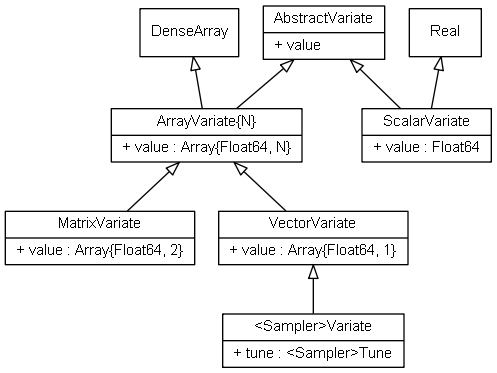
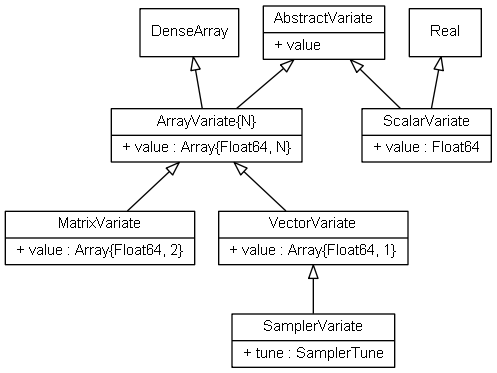
Implement abstract SamplerTune and SamplerVariate types.

Changed region(s): [[0.6036, 0.8257, 0.8149, 1.0], [0.4225, 0.8257, 0.5734, 1.0], [0.6338, 0.8552, 0.7545, 0.8847]]

diff --git a/doc/variate.rst b/doc/variate.rst
@@ -21,9 +21,12 @@ Declarations
 
     abstract ScalarVariate <: Real
     abstract ArrayVariate{N} <: DenseArray{Float64, N}
+
     typealias AbstractVariate Union{ScalarVariate, ArrayVariate}
     typealias VectorVariate ArrayVariate{1}
     typealias MatrixVariate ArrayVariate{2}
+
+    abstract SamplerVariate <: VectorVariate
 
 Type Hierarchy
 ^^^^^^^^^^^^^^

diff --git a/doc/samplers/slicesimplex.rst b/doc/samplers/slicesimplex.rst
@@ -41,7 +41,7 @@ SliceSimplexVariate Type
 Declaration
 ```````````
 
-``SliceSimplexVariate <: VectorVariate``
+``SliceSimplexVariate <: SamplerVariate``
 
 Fields
 ``````
@@ -74,7 +74,7 @@ SliceSimplexTune Type
 Declaration
 ```````````
 
-``type SliceSimplexTune``
+``type SliceSimplexTune <: SamplerTune``
 
 Fields
 ``````

diff --git a/doc/samplers/slice.rst b/doc/samplers/slice.rst
@@ -45,7 +45,7 @@ SliceVariate Type
 Declaration
 ```````````
 
-``SliceVariate <: VectorVariate``
+``SliceVariate <: SamplerVariate``
 
 Fields
 ``````
@@ -78,7 +78,7 @@ SliceTune Type
 Declaration
 ```````````
 
-``type SliceTune``
+``type SliceTune <: SamplerTune``
 
 Fields
 ``````

diff --git a/doc/samplers/bmg.rst b/doc/samplers/bmg.rst
@@ -41,7 +41,7 @@ BMGVariate Type
 Declaration
 ```````````
 
-``BMGVariate <: VectorVariate``
+``BMGVariate <: SamplerVariate``
 
 Fields
 ``````
@@ -72,7 +72,7 @@ BMGTune Type
 Declaration
 ```````````
 
-``type BMGTune``
+``type BMGTune <: SamplerTune``
 
 
 Sampler Constructor

diff --git a/doc/samplers/amwg.rst b/doc/samplers/amwg.rst
@@ -45,7 +45,7 @@ AMWGVariate Type
 Declaration
 ```````````
 
-``AMWGVariate <: VectorVariate``
+``AMWGVariate <: SamplerVariate``
 
 Fields
 ``````
@@ -79,7 +79,7 @@ AMWGTune Type
 Declaration
 ```````````
 
-``type AMWGTune``
+``type AMWGTune <: SamplerTune``
 
 Fields
 ``````

diff --git a/doc/samplers/bhmc.rst b/doc/samplers/bhmc.rst
@@ -41,7 +41,7 @@ BHMCVariate Type
 Declaration
 ```````````
 
-``BHMCVariate <: VectorVariate``
+``BHMCVariate <: SamplerVariate``
 
 Fields
 ``````
@@ -74,7 +74,7 @@ BHMCTune Type
 Declaration
 ```````````
 
-``type BHMCTune``
+``type BHMCTune <: SamplerTune``
 
 Fields
 ``````

diff --git a/doc/samplers/bmc3.rst b/doc/samplers/bmc3.rst
@@ -44,7 +44,7 @@ BMC3Variate Type
 Declaration
 ```````````
 
-``BMC3Variate <: VectorVariate``
+``BMC3Variate <: SamplerVariate``
 
 Fields
 ``````
@@ -77,7 +77,7 @@ BMC3Tune Type
 Declaration
 ```````````
 
-``type BMC3Tune``
+``type BMC3Tune <: SamplerTune``
 
 Fields
 ``````

diff --git a/doc/samplers/mala.rst b/doc/samplers/mala.rst
@@ -44,7 +44,7 @@ MALAVariate Type
 Declaration
 ```````````
 
-``MALAVariate <: VectorVariate``
+``MALAVariate <: SamplerVariate``
 
 Fields
 ``````
@@ -77,7 +77,7 @@ MALATune Type
 Declaration
 ```````````
 
-``type MALATune``
+``type MALATune <: SamplerTune``
 
 Fields
 ``````

diff --git a/doc/samplers/nuts.rst b/doc/samplers/nuts.rst
@@ -57,7 +57,7 @@ NUTSVariate Type
 Declaration
 ```````````
 
-``NUTSVariate <: VectorVariate``
+``NUTSVariate <: SamplerVariate``
 
 Fields
 ``````
@@ -91,7 +91,7 @@ NUTSTune Type
 Declaration
 ```````````
 
-``type NUTSTune``
+``type NUTSTune <: SamplerTune``
 
 Fields
 ``````

diff --git a/doc/samplers/amm.rst b/doc/samplers/amm.rst
@@ -43,7 +43,7 @@ AMMVariate Type
 Declaration
 ```````````
 
-``AMMVariate <: VectorVariate``
+``AMMVariate <: SamplerVariate``
 
 Fields
 ``````
@@ -77,7 +77,7 @@ AMMTune Type
 Declaration
 ```````````
 
-``type AMMTune``
+``type AMMTune <: SamplerTune``
 
 Fields
 ``````

diff --git a/doc/samplers/dgs.rst b/doc/samplers/dgs.rst
@@ -35,7 +35,7 @@ DGSVariate Type
 Declaration
 ```````````
 
-``DGSVariate <: VectorVariate``
+``DGSVariate <: SamplerVariate``
 
 Fields
 ``````
@@ -68,7 +68,7 @@ DGSTune Type
 Declaration
 ```````````
 
-``type DGSTune``
+``type DGSTune <: SamplerTune``
 
 Fields
 ``````

diff --git a/doc/samplers/hmc.rst b/doc/samplers/hmc.rst
@@ -43,7 +43,7 @@ HMCVariate Type
 Declaration
 ```````````
 
-``HMCVariate <: VectorVariate``
+``HMCVariate <: SamplerVariate``
 
 Fields
 ``````
@@ -76,7 +76,7 @@ HMCTune Type
 Declaration
 ```````````
 
-``type HMCTune``
+``type HMCTune <: SamplerTune``
 
 Fields
 ``````
